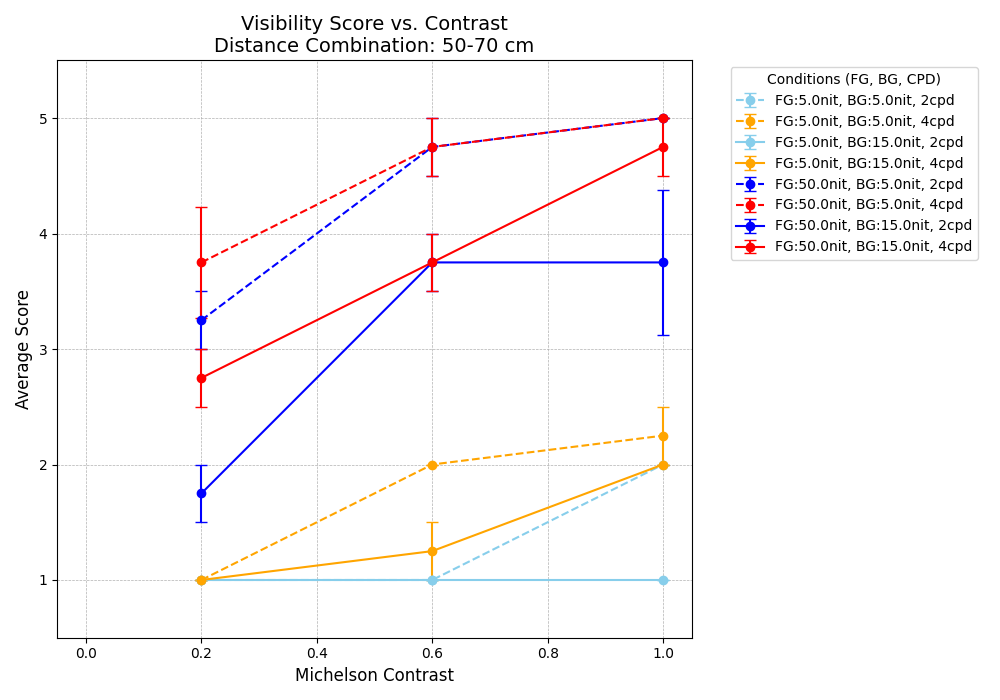
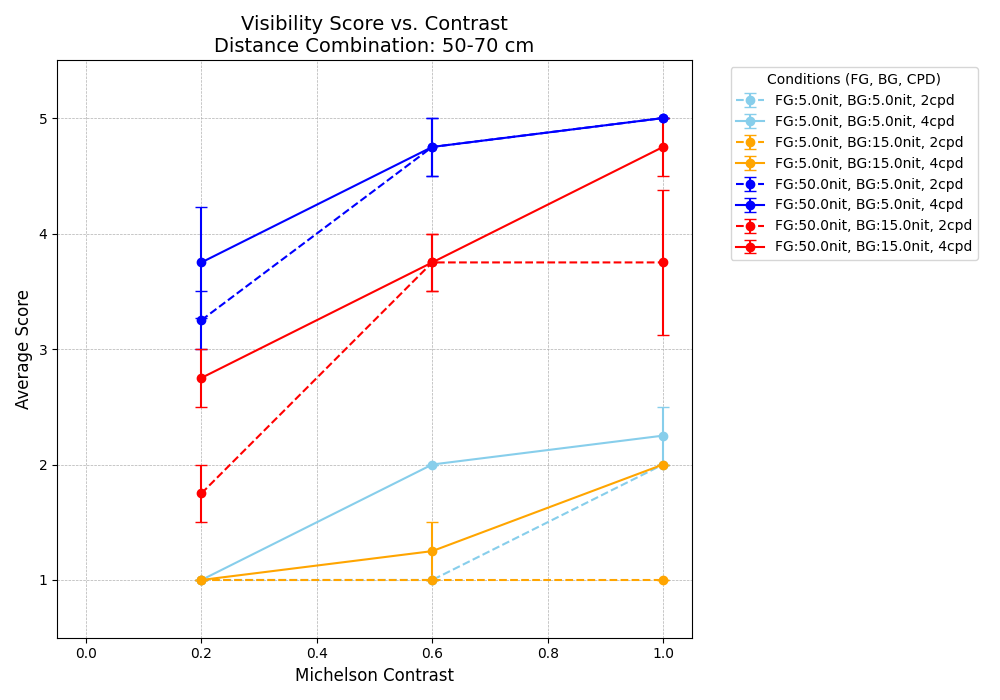
fix: グラフのプロットを変更
- 色の違いは輝度の違いに
   - 濃淡は前景輝度
   - 寒暖は背景輝度
- 空間周波数の違いは点線か実線か

diff --git a/src/experiment/pre-analyze/pre-analyze-gabor.py b/src/experiment/pre-analyze/pre-analyze-gabor.py
@@ -132,13 +132,13 @@ if not unique_distances.size:
 # データに含まれる全組み合わせを取得して色を割り当てる
 conditions = summary_df[['fg_lum', 'bg_lum', 'fg_cpd']].drop_duplicates().sort_values(by=['fg_lum', 'bg_lum', 'fg_cpd'])
 
-# 背景輝度の最小値を取得（これを点線にする）
-min_bg_lum = conditions['bg_lum'].min()
-
 # 色分けルールのための値の取得
 unique_fg_lums = sorted(conditions['fg_lum'].unique())
+unique_bg_lums = sorted(conditions['bg_lum'].unique())
 unique_fg_cpds = sorted(conditions['fg_cpd'].unique())
+
 max_fg_lum = max(unique_fg_lums) if unique_fg_lums else 0
+max_bg_lum = max(unique_bg_lums) if unique_bg_lums else 0
 max_fg_cpd = max(unique_fg_cpds) if unique_fg_cpds else 0
 
 condition_styles = {}
@@ -148,17 +148,19 @@ for idx, row in enumerate(conditions.itertuples(index=False)):
     key = (row.fg_lum, row.bg_lum, row.fg_cpd)
     label = f"FG:{row.fg_lum}nit, BG:{row.bg_lum}nit, {row.fg_cpd}cpd"
     
-    # 色の決定: 周波数が高い(赤系)/低い(青系)、輝度が高い(鮮やか)/低い(淡い)
+    # 色の決定: 背景輝度が高い(赤系)/低い(青系)、FG輝度が高い(濃い)/低い(薄い)
+    is_high_bg = (row.bg_lum == max_bg_lum)
+    is_high_fg = (row.fg_lum == max_fg_lum)
     is_high_cpd = (row.fg_cpd == max_fg_cpd)
-    is_high_lum = (row.fg_lum == max_fg_lum)
     
-    if is_high_cpd:
-        color = 'red' if is_high_lum else 'orange'
+    if is_high_bg:
+        color = 'red' if is_high_fg else 'orange'
     else:
-        color = 'blue' if is_high_lum else 'skyblue'
+        color = 'blue' if is_high_fg else 'skyblue'
 
-    # 背景輝度が低い場合は点線（破線）にする
-    linestyle = '--' if row.bg_lum == min_bg_lum else '-'
+    # 線の種類: 周波数が高い(実線)/低い(点線)
+    linestyle = '-' if is_high_cpd else '--'
+    
     condition_styles[key] = {'color': color, 'label': label, 'linestyle': linestyle}
 
 # 各距離の組み合わせについて個別のグラフを生成
@@ -208,3 +210,72 @@ for distance in unique_distances:
     print(f"グラフを保存しました: {output_filename}")
     
     plt.show()
+
+# --- 追加: AR拡張コントラスト vs スコア (平均 + 標準偏差) ---
+print("AR拡張コントラストの分析を実行中...")
+
+# AR拡張コントラストの計算
+# c_AR = (Y_max - Y_min) / (Y_max + Y_min + 2*Y_BG)
+# ここで、Y_max = fg_lum * (1 + fg_contrast), Y_min = fg_lum * (1 - fg_contrast)
+# これを代入すると: c_AR = (fg_lum * fg_contrast) / (fg_lum + bg_lum)
+final_df['ar_contrast'] = (final_df['fg_lum'] * final_df['fg_contrast']) / (final_df['fg_lum'] + final_df['bg_lum'])
+
+# グラフ描画
+fig_ar, ax_ar = plt.subplots(figsize=(10, 7))
+
+# FG輝度とBG輝度の組み合わせごとに集計してプロット
+grouped_ar = final_df.groupby(['fg_lum', 'bg_lum', 'ar_contrast'])['Score'].agg(['mean', 'std']).reset_index()
+grouped_ar['std'] = grouped_ar['std'].fillna(0)
+
+# 組み合わせのユニークなリストを作成
+conditions_ar = grouped_ar[['fg_lum', 'bg_lum']].drop_duplicates().sort_values(by=['fg_lum', 'bg_lum'])
+
+for idx, (fg_l, bg_l) in enumerate(conditions_ar.itertuples(index=False, name=None)):
+    subset = grouped_ar[(grouped_ar['fg_lum'] == fg_l) & (grouped_ar['bg_lum'] == bg_l)]
+    label = f"FG:{fg_l}nit, BG:{bg_l}nit"
+    # 線なし (fmt='o') でプロット
+    ax_ar.errorbar(subset['ar_contrast'], subset['mean'], yerr=subset['std'],
+                 fmt='o', capsize=4, label=label, alpha=0.8)
+
+ax_ar.set_title('Visibility Score vs. AR Extended Contrast', fontsize=14)
+ax_ar.set_xlabel(r'AR Extended Contrast ($c_{AR}$)', fontsize=12)
+ax_ar.set_ylabel('Average Score', fontsize=12)
+ax_ar.set_ylim(0.5, 5.5)
+ax_ar.set_xlim(0, 1.05)
+ax_ar.grid(True, which='both', linestyle='--', linewidth=0.5)
+ax_ar.legend(loc='upper left')
+
+output_filename_ar = os.path.join(OUTPUT_DIR, 'ar_contrast_vs_score_mean_std.png')
+plt.savefig(output_filename_ar)
+print(f"AR拡張コントラストのグラフを保存しました: {output_filename_ar}")
+plt.show()
+
+# --- 追加: 輝度比 (FG/BG) vs スコア ---
+print("輝度比 (FG/BG) の分析を実行中...")
+
+# 輝度比の計算
+final_df['lum_ratio'] = final_df['fg_lum'] / final_df['bg_lum']
+
+# 輝度比ごとの平均と標準偏差を算出
+ratio_summary_df = final_df.groupby('lum_ratio')['Score'].agg(['mean', 'std']).reset_index()
+ratio_summary_df['std'] = ratio_summary_df['std'].fillna(0)
+ratio_summary_df = ratio_summary_df.sort_values('lum_ratio')
+
+# グラフ描画
+fig_ratio, ax_ratio = plt.subplots(figsize=(10, 7))
+
+ax_ratio.errorbar(ratio_summary_df['lum_ratio'], ratio_summary_df['mean'], yerr=ratio_summary_df['std'],
+             fmt='-o', capsize=4, color='green', label='Mean Score ± STD')
+
+ax_ratio.set_title('Visibility Score vs. Luminance Ratio (FG/BG)', fontsize=14)
+ax_ratio.set_xlabel(r'Luminance Ratio ($Y_{FG}/Y_{BG}$)', fontsize=12)
+ax_ratio.set_ylabel('Average Score', fontsize=12)
+ax_ratio.set_ylim(0.5, 5.5)
+ax_ratio.set_xscale('log')
+ax_ratio.grid(True, which='both', linestyle='--', linewidth=0.5)
+ax_ratio.legend(loc='upper left')
+
+output_filename_ratio = os.path.join(OUTPUT_DIR, 'lum_ratio_vs_score_mean_std.png')
+plt.savefig(output_filename_ratio)
+print(f"輝度比のグラフを保存しました: {output_filename_ratio}")
+plt.show()
